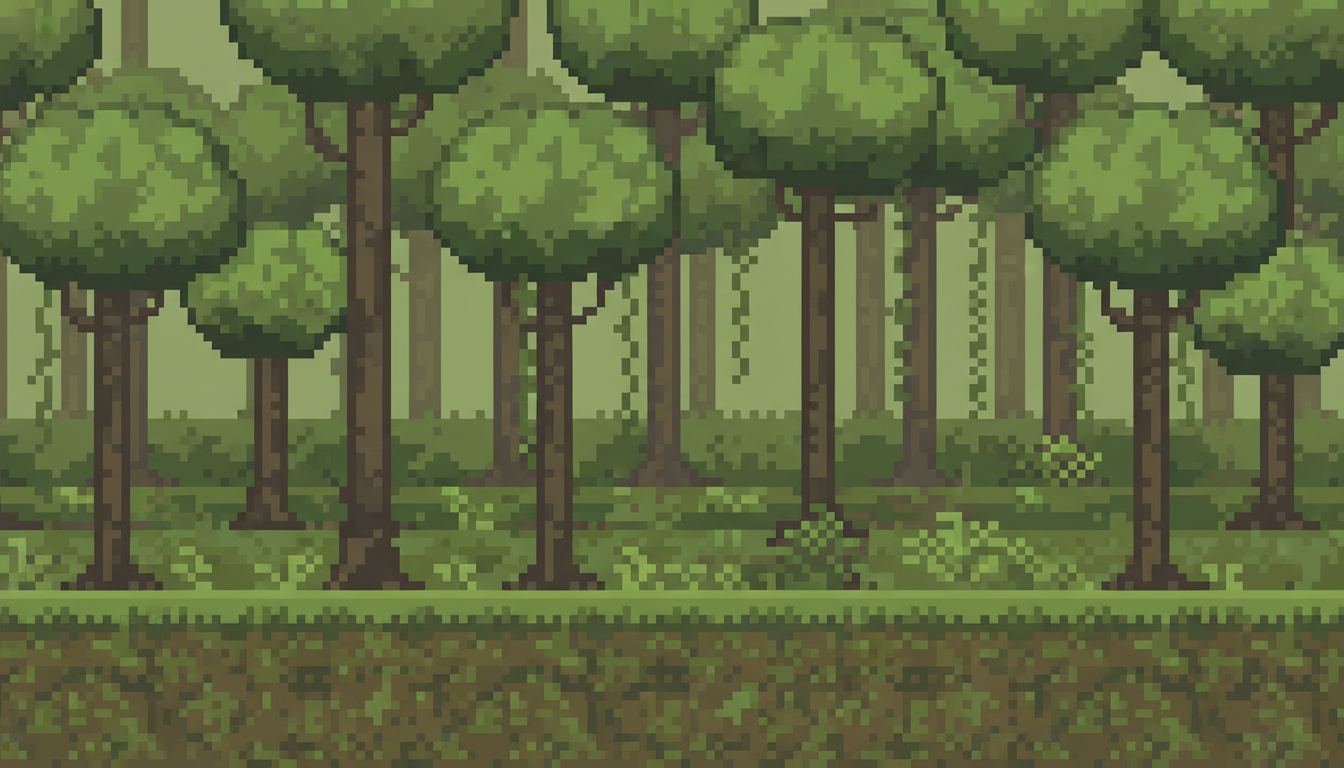
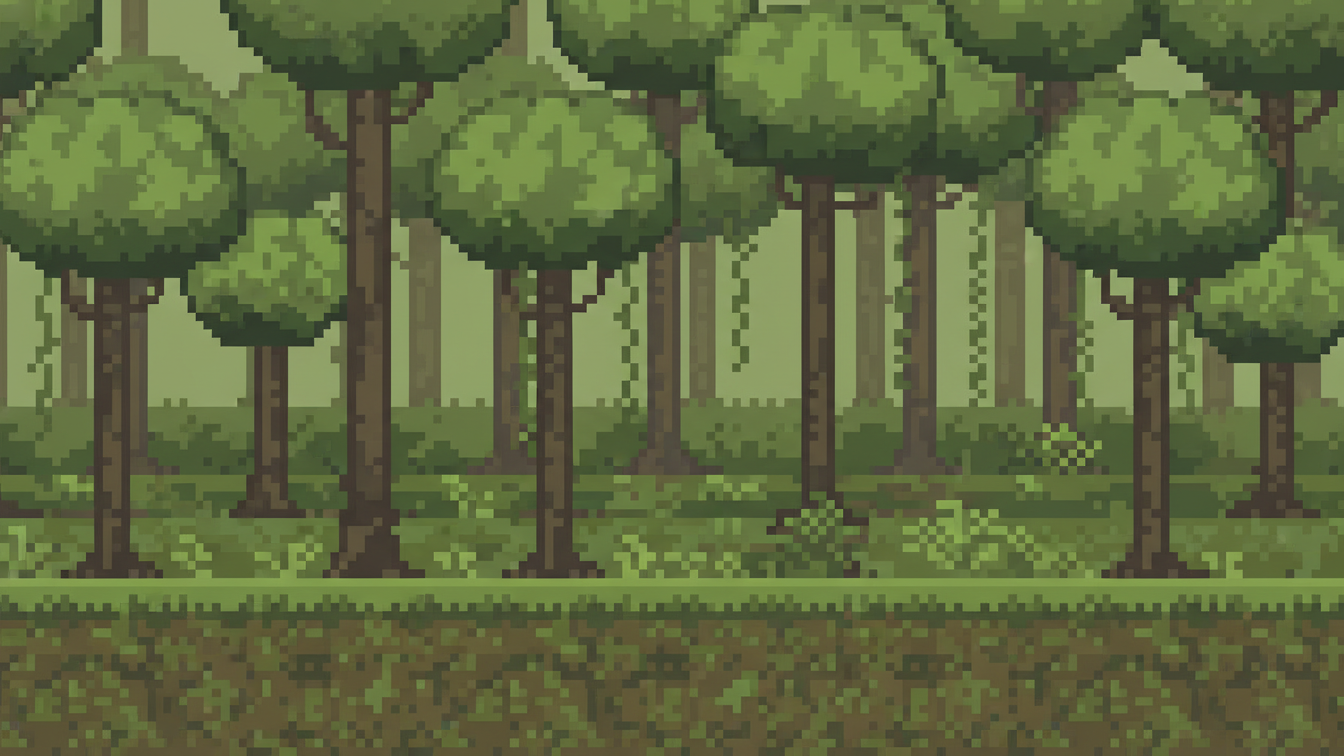
fix: Change viewport to use 16:9 relative units and adapt background and windows size

diff --git a/core/src/main/java/io/github/darellanodev/monkeybananarun/Main.java b/core/src/main/java/io/github/darellanodev/monkeybananarun/Main.java
@@ -16,11 +16,14 @@ public class Main extends ApplicationAdapter {
     private Texture background;
     private Music music;
     private Texture monkey;
+    public static final float WORLD_WIDTH = 16f;
+    public static final float WORLD_HEIGHT = 9f;
+
 
     @Override
     public void create() {
         batch = new SpriteBatch();
-        viewport = new FitViewport(1344, 768);
+        viewport = new FitViewport(WORLD_WIDTH, WORLD_HEIGHT);
         image = new Texture("libgdx.png");
         monkey = new Texture("monkey.png");
         background = new Texture("background.png");
@@ -34,7 +37,7 @@ public class Main extends ApplicationAdapter {
         batch.setProjectionMatrix(viewport.getCamera().combined);
         batch.begin();
         batch.draw(background, 0, 0, viewport.getWorldWidth(), viewport.getWorldHeight());
-        batch.draw(monkey, 100, 170, 128, 128);
+        batch.draw(monkey, 2f, 2f, 2f, 2f);
         batch.end();
     }
 

diff --git a/lwjgl3/src/main/java/io/github/darellanodev/monkeybananarun/lwjgl3/Lwjgl3Launcher.java b/lwjgl3/src/main/java/io/github/darellanodev/monkeybananarun/lwjgl3/Lwjgl3Launcher.java
@@ -28,7 +28,7 @@ public class Lwjgl3Launcher {
         //// useful for testing performance, but can also be very stressful to some hardware.
         //// You may also need to configure GPU drivers to fully disable Vsync; this can cause screen tearing.
 
-        configuration.setWindowedMode(1344, 768);
+        configuration.setWindowedMode(1344, 756);
         //// You can change these files; they are in lwjgl3/src/main/resources/ .
         //// They can also be loaded from the root of assets/ .
         configuration.setWindowIcon("libgdx128.png", "libgdx64.png", "libgdx32.png", "libgdx16.png");
